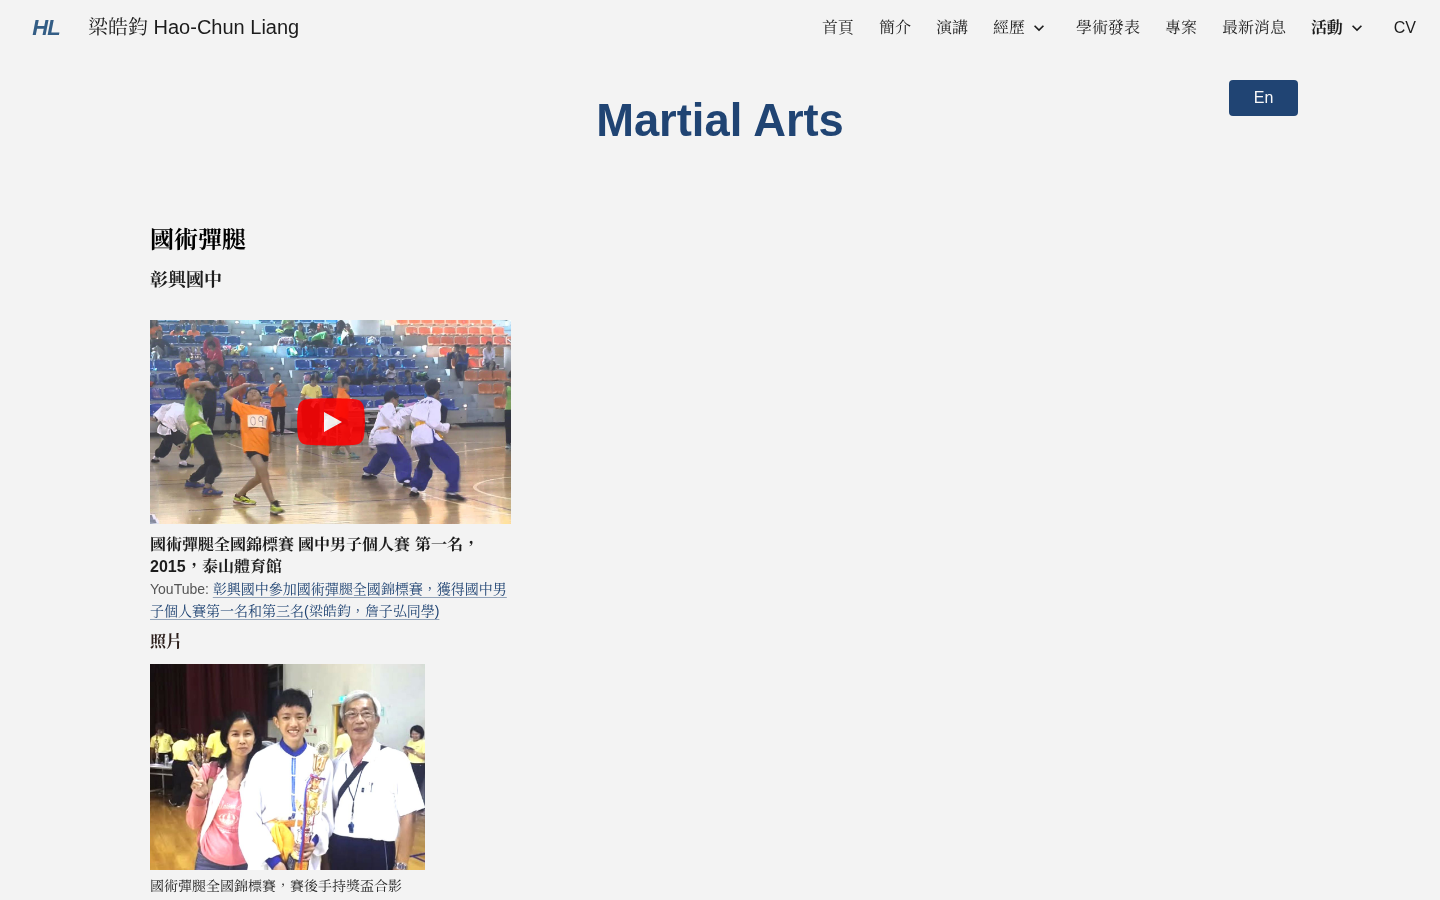
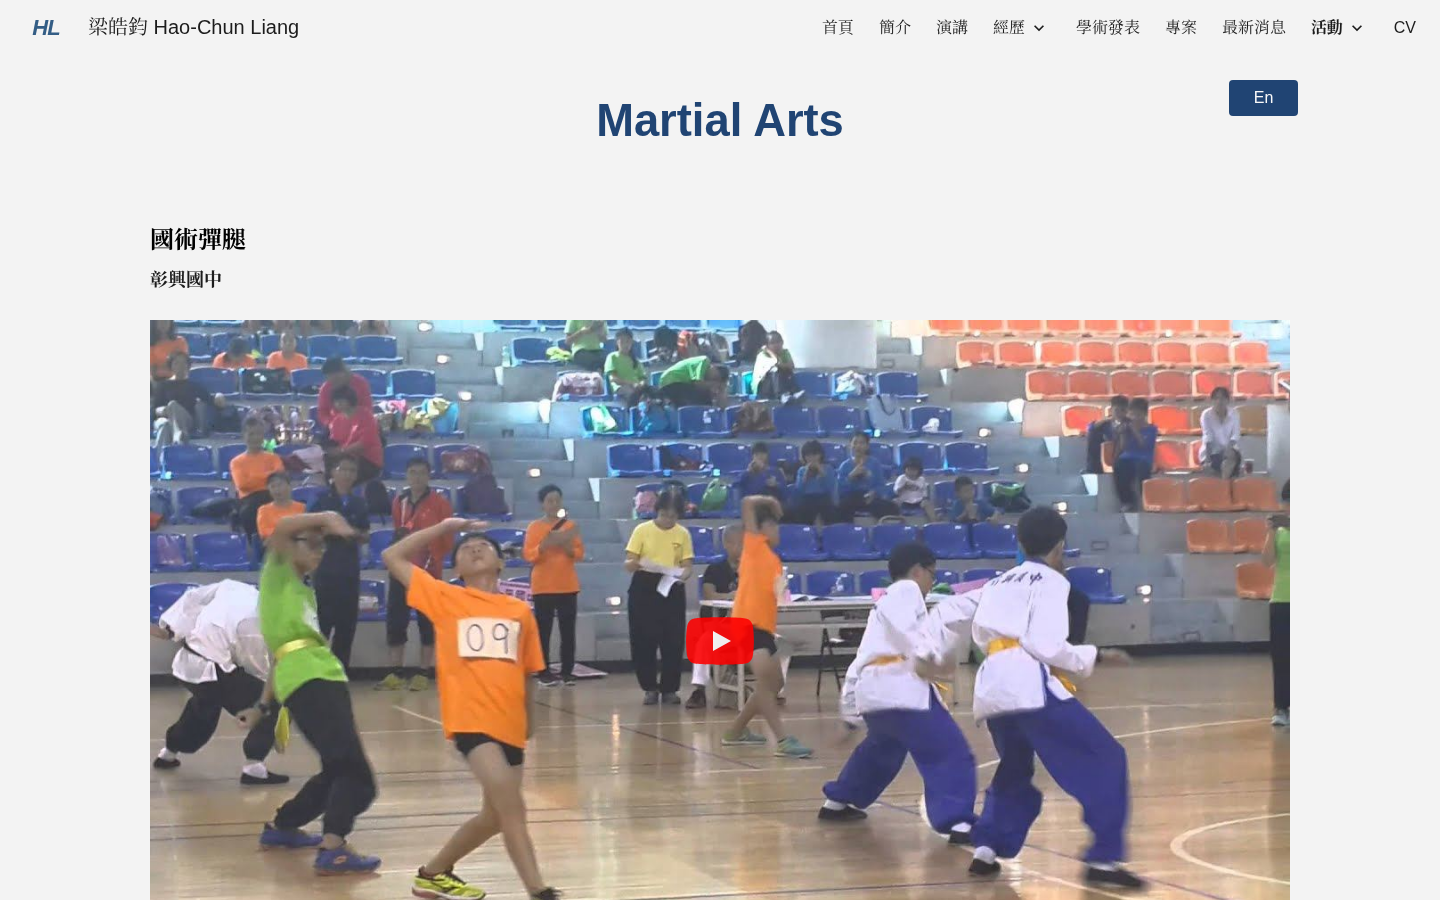
Martial Arts: video and trophy photo full width like PCS Lab; phones left-aligned
- .video-grid.single spans the full content width; the lone trophy photo
  becomes a full-width .photo (lightbox kept)
- 480px and below: justified blocks fall back to left alignment (owner
  ruling; narrow columns cannot justify without wide word gaps). CSS v36

Claude-Session: https://claude.ai/code/session_01YYQQxzKC9fV2djn5XGgtNn

diff --git a/activity/martial-arts/index.html b/activity/martial-arts/index.html
@@ -29,7 +29,7 @@
   <link rel="preconnect" href="https://fonts.googleapis.com">
   <link rel="preconnect" href="https://fonts.gstatic.com" crossorigin>
   <link rel="stylesheet" href="https://fonts.googleapis.com/css2?family=Noto+Serif+TC:wght@400;700&amp;display=swap">
-  <link rel="stylesheet" href="/assets/gsite.css?v=35">
+  <link rel="stylesheet" href="/assets/gsite.css?v=36">
 </head>
 <body>
 
@@ -76,7 +76,7 @@
   <section class="section section-first">
     <h2>Tantui (Chinese Martial Arts)</h2>
     <p class="club-name"><span lang="zh-Hant-TW">彰興國中</span>, Changhua</p>
-    <div class="video-grid">
+    <div class="video-grid single">
       <figure class="video" id="tantui-2015">
         <button class="yt-facade" type="button" data-yt="2n1bPFXaegA" aria-label="Play video: First Place, Junior High Boys’ Individual, National Chinese Martial Arts Tantui Championship, 2015, Taishan Gymnasium">
           <img src="/images/activity/tantui-2015.jpg" alt="" width="1280" height="720" loading="lazy">
@@ -86,9 +86,7 @@
       </figure>
     </div>
     <h3 class="group">Photo</h3>
-    <div class="gallery">
-      <figure><a href="/images/activity/martial-arts-card.jpg"><img src="/images/activity/martial-arts-card.jpg" alt="Holding the trophy at the national Tantui championship" width="1359" height="729" loading="lazy"></a><figcaption>Holding the trophy at the national Tantui championship</figcaption></figure>
-    </div>
+    <figure class="photo"><a href="/images/activity/martial-arts-card.jpg"><img src="/images/activity/martial-arts-card.jpg" alt="Holding the trophy at the national Tantui championship" width="1359" height="729" loading="lazy"></a><figcaption>Holding the trophy at the national Tantui championship</figcaption></figure>
   </section>
 
   <section class="section">

diff --git a/zh/activity/martial-arts/index.html b/zh/activity/martial-arts/index.html
@@ -29,7 +29,7 @@
   <link rel="preconnect" href="https://fonts.googleapis.com">
   <link rel="preconnect" href="https://fonts.gstatic.com" crossorigin>
   <link rel="stylesheet" href="https://fonts.googleapis.com/css2?family=Noto+Serif+TC:wght@400;700&amp;display=swap">
-  <link rel="stylesheet" href="/assets/gsite.css?v=35">
+  <link rel="stylesheet" href="/assets/gsite.css?v=36">
 </head>
 <body>
 
@@ -76,7 +76,7 @@
   <section class="section section-first">
     <h2>國術彈腿</h2>
     <p class="club-name">彰興國中</p>
-    <div class="video-grid">
+    <div class="video-grid single">
       <figure class="video" id="tantui-2015">
         <button class="yt-facade" type="button" data-yt="2n1bPFXaegA" aria-label="播放影片：國術彈腿全國錦標賽 國中男子個人賽 第一名，2015，泰山體育館">
           <img src="/images/activity/tantui-2015.jpg" alt="" width="1280" height="720" loading="lazy">
@@ -86,9 +86,7 @@
       </figure>
     </div>
     <h3 class="group">照片</h3>
-    <div class="gallery">
-      <figure><a href="/images/activity/martial-arts-card.jpg"><img src="/images/activity/martial-arts-card.jpg" alt="國術彈腿全國錦標賽，賽後手持獎盃合影" width="1359" height="729" loading="lazy"></a><figcaption>國術彈腿全國錦標賽，賽後手持獎盃合影</figcaption></figure>
-    </div>
+    <figure class="photo"><a href="/images/activity/martial-arts-card.jpg"><img src="/images/activity/martial-arts-card.jpg" alt="國術彈腿全國錦標賽，賽後手持獎盃合影" width="1359" height="729" loading="lazy"></a><figcaption>國術彈腿全國錦標賽，賽後手持獎盃合影</figcaption></figure>
   </section>
 
   <section class="section">

diff --git a/assets/gsite.css b/assets/gsite.css
@@ -694,6 +694,8 @@ h1, h2, h3, .page-title, .band-title, .motto, .hero-line { text-wrap: balance; }
   gap: clamp(12px, 2vw, 28px);
   margin-top: 8px;
 }
+/* A lone video (Martial Arts) spans the full width, like the PCS Lab photo */
+.video-grid.single { grid-template-columns: 1fr; }
 .video { margin: 0; }
 .yt-facade, .video iframe {
   position: relative;
@@ -953,3 +955,14 @@ html[lang="zh-Hant-TW"] :is(.bio p, .section > p, .list > li, .cite-list > li, .
 
 /* in-page targets (award video links, Gango) clear the sticky header */
 main [id] { scroll-margin-top: calc(var(--header-h) + 16px); }
+
+/* Owner ruling 2026-11-17: phones (480px and below) are left-aligned; a column
+   that narrow cannot be justified without wide word gaps */
+@media (max-width: 480px) {
+  .bio p,
+  .section > p,
+  .list > li,
+  .cite-list > li,
+  .news-list li,
+  .list .sub:not(.inline) { text-align: start; }
+}

diff --git a/zh/index.html b/zh/index.html
@@ -30,7 +30,7 @@
   <link rel="preconnect" href="https://fonts.googleapis.com">
   <link rel="preconnect" href="https://fonts.gstatic.com" crossorigin>
   <link rel="stylesheet" href="https://fonts.googleapis.com/css2?family=Noto+Serif+TC:wght@400;700&amp;display=swap">
-  <link rel="stylesheet" href="/assets/gsite.css?v=35">
+  <link rel="stylesheet" href="/assets/gsite.css?v=36">
 <script>
 /* Old single-page links (/#unitrac, /#education, ...) now live on their own pages. */
 (function () {

diff --git a/index.html b/index.html
@@ -30,7 +30,7 @@
   <link rel="preconnect" href="https://fonts.googleapis.com">
   <link rel="preconnect" href="https://fonts.gstatic.com" crossorigin>
   <link rel="stylesheet" href="https://fonts.googleapis.com/css2?family=Noto+Serif+TC:wght@400;700&amp;display=swap">
-  <link rel="stylesheet" href="/assets/gsite.css?v=35">
+  <link rel="stylesheet" href="/assets/gsite.css?v=36">
   <script type="application/ld+json">
   {
     "@context": "https://schema.org",

diff --git a/404.html b/404.html
@@ -11,7 +11,7 @@
   <link rel="preconnect" href="https://fonts.googleapis.com">
   <link rel="preconnect" href="https://fonts.gstatic.com" crossorigin>
   <link rel="stylesheet" href="https://fonts.googleapis.com/css2?family=Noto+Serif+TC:wght@400;700&amp;display=swap">
-  <link rel="stylesheet" href="/assets/gsite.css?v=35">
+  <link rel="stylesheet" href="/assets/gsite.css?v=36">
 </head>
 <body>
 <a class="skip-link" href="#main">Skip to main content</a>

diff --git a/activity/pcs-lab/index.html b/activity/pcs-lab/index.html
@@ -29,7 +29,7 @@
   <link rel="preconnect" href="https://fonts.googleapis.com">
   <link rel="preconnect" href="https://fonts.gstatic.com" crossorigin>
   <link rel="stylesheet" href="https://fonts.googleapis.com/css2?family=Noto+Serif+TC:wght@400;700&amp;display=swap">
-  <link rel="stylesheet" href="/assets/gsite.css?v=35">
+  <link rel="stylesheet" href="/assets/gsite.css?v=36">
 </head>
 <body>
 

diff --git a/activity/pop-dance-club/index.html b/activity/pop-dance-club/index.html
@@ -29,7 +29,7 @@
   <link rel="preconnect" href="https://fonts.googleapis.com">
   <link rel="preconnect" href="https://fonts.gstatic.com" crossorigin>
   <link rel="stylesheet" href="https://fonts.googleapis.com/css2?family=Noto+Serif+TC:wght@400;700&amp;display=swap">
-  <link rel="stylesheet" href="/assets/gsite.css?v=35">
+  <link rel="stylesheet" href="/assets/gsite.css?v=36">
 </head>
 <body>
 

diff --git a/activity/travel/index.html b/activity/travel/index.html
@@ -29,7 +29,7 @@
   <link rel="preconnect" href="https://fonts.googleapis.com">
   <link rel="preconnect" href="https://fonts.gstatic.com" crossorigin>
   <link rel="stylesheet" href="https://fonts.googleapis.com/css2?family=Noto+Serif+TC:wght@400;700&amp;display=swap">
-  <link rel="stylesheet" href="/assets/gsite.css?v=35">
+  <link rel="stylesheet" href="/assets/gsite.css?v=36">
 </head>
 <body>
 

diff --git a/biography/index.html b/biography/index.html
@@ -29,7 +29,7 @@
   <link rel="preconnect" href="https://fonts.googleapis.com">
   <link rel="preconnect" href="https://fonts.gstatic.com" crossorigin>
   <link rel="stylesheet" href="https://fonts.googleapis.com/css2?family=Noto+Serif+TC:wght@400;700&amp;display=swap">
-  <link rel="stylesheet" href="/assets/gsite.css?v=35">
+  <link rel="stylesheet" href="/assets/gsite.css?v=36">
 </head>
 <body>
 

diff --git a/cv/index.html b/cv/index.html
@@ -26,7 +26,7 @@
   <link rel="preconnect" href="https://fonts.googleapis.com">
   <link rel="preconnect" href="https://fonts.gstatic.com" crossorigin>
   <link rel="stylesheet" href="https://fonts.googleapis.com/css2?family=Noto+Serif+TC:wght@400;700&amp;display=swap">
-  <link rel="stylesheet" href="/assets/gsite.css?v=35">
+  <link rel="stylesheet" href="/assets/gsite.css?v=36">
 </head>
 <body>
 

diff --git a/experience/awards/index.html b/experience/awards/index.html
@@ -29,7 +29,7 @@
   <link rel="preconnect" href="https://fonts.googleapis.com">
   <link rel="preconnect" href="https://fonts.gstatic.com" crossorigin>
   <link rel="stylesheet" href="https://fonts.googleapis.com/css2?family=Noto+Serif+TC:wght@400;700&amp;display=swap">
-  <link rel="stylesheet" href="/assets/gsite.css?v=35">
+  <link rel="stylesheet" href="/assets/gsite.css?v=36">
 </head>
 <body>
 
